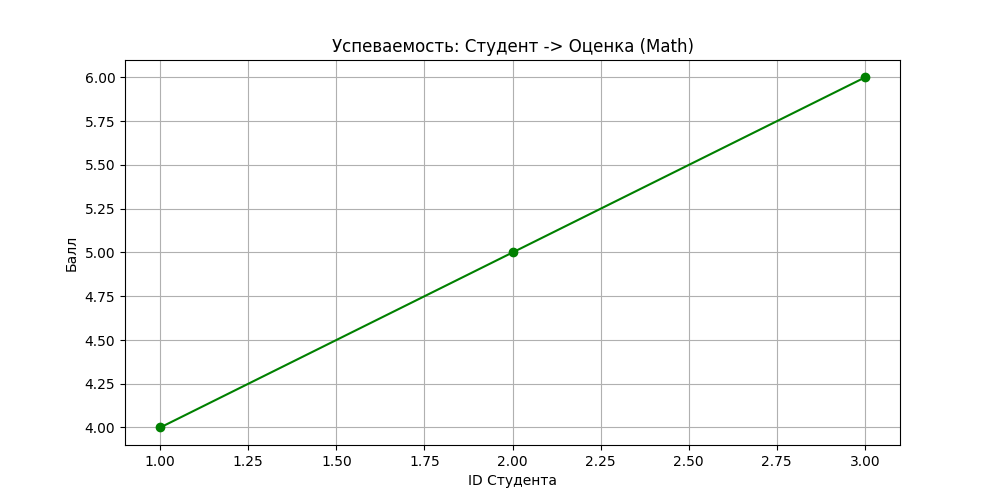
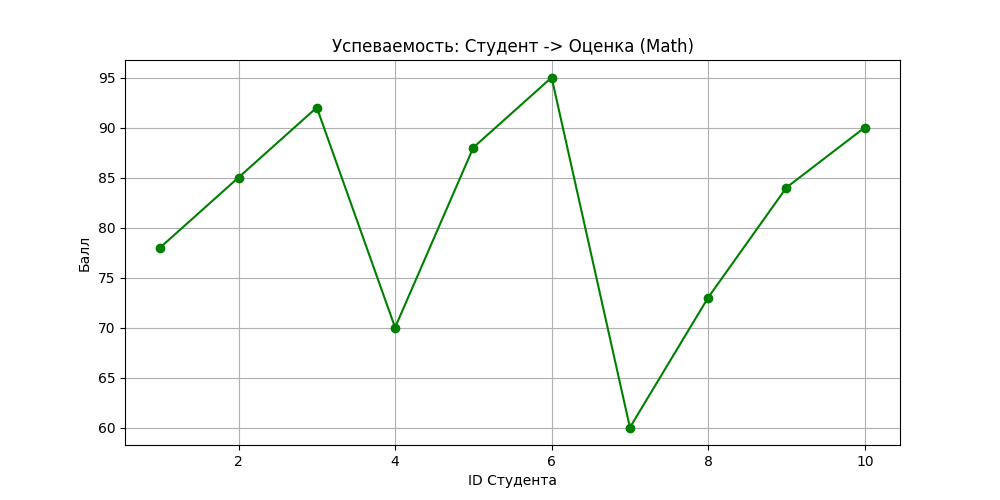
исправлены фото во 2 лабе (в прошлый раз были случайно использованы тестовые), все точно приведено к стандартам

diff --git a/docs/index.html b/docs/index.html
@@ -293,5 +293,5 @@
 
 <!--
 MkDocs version : 1.6.1
-Build Date UTC : 2026-03-13 20:12:33.699055+00:00
+Build Date UTC : 2026-03-13 20:51:59.976330+00:00
 -->

diff --git a/lab_2/main.py b/lab_2/main.py
@@ -1,17 +1,20 @@
 import os
 from typing import Dict, Union
-import numpy as np
-import pandas as pd
+
 import matplotlib
 import matplotlib.pyplot as plt
+import numpy as np
+import pandas as pd
 import seaborn as sns
 
-matplotlib.use('Agg')
+# Установка бэкенда должна быть сразу после импорта matplotlib
+matplotlib.use("Agg")
 
 
 # ============================================================
 # 1. СОЗДАНИЕ И ОБРАБОТКА МАССИВОВ
 # ============================================================
+
 
 def create_vector() -> np.ndarray:
     """Создает одномерный массив (вектор) от 0 до 9 включительно."""
@@ -24,14 +27,7 @@ def create_matrix() -> np.ndarray:
 
 
 def reshape_vector(vec: np.ndarray) -> np.ndarray:
-    """
-    Меняет форму массива из 10 элементов в таблицу 2x5.
-    
-    Args:
-        vec: Входной массив из 10 элементов.
-    Returns:
-        Массив формы (2, 5).
-    """
+    """Изменяет форму массива из 10 элементов в таблицу 2x5."""
     return vec.reshape(2, 5)
 
 
@@ -43,6 +39,7 @@ def transpose_matrix(mat: np.ndarray) -> np.ndarray:
 # ============================================================
 # 2. ВЕКТОРНЫЕ ОПЕРАЦИИ
 # ============================================================
+
 
 def vector_add(a: np.ndarray, b: np.ndarray) -> np.ndarray:
     """Сложение векторов одинаковой длины без циклов."""
@@ -68,6 +65,7 @@ def dot_product(a: np.ndarray, b: np.ndarray) -> Union[float, np.int64]:
 # 3. МАТРИЧНЫЕ ОПЕРАЦИИ
 # ============================================================
 
+
 def matrix_multiply(a: np.ndarray, b: np.ndarray) -> np.ndarray:
     """Классическое умножение матриц."""
     return a @ b
@@ -92,6 +90,7 @@ def solve_linear_system(a: np.ndarray, b: np.ndarray) -> np.ndarray:
 # 4. СТАТИСТИЧЕСКИЙ АНАЛИЗ
 # ============================================================
 
+
 def load_dataset(path: str = "data/students_scores.csv") -> np.ndarray:
     """Загружает CSV и возвращает NumPy массив чисел."""
     df = pd.read_csv(path)
@@ -99,12 +98,7 @@ def load_dataset(path: str = "data/students_scores.csv") -> np.ndarray:
 
 
 def statistical_analysis(data: np.ndarray) -> Dict[str, float]:
-    """
-    Вычисляет основные статистические показатели.
-    
-    Returns:
-        Словарь со средним, медианой, ст. отклонением и др.
-    """
+    """Вычисляет основные статистические показатели."""
     return {
         "mean": float(np.mean(data)),
         "median": float(np.median(data)),
@@ -112,7 +106,7 @@ def statistical_analysis(data: np.ndarray) -> Dict[str, float]:
         "min": float(np.min(data)),
         "max": float(np.max(data)),
         "q1": float(np.percentile(data, 25)),
-        "q3": float(np.percentile(data, 75))
+        "q3": float(np.percentile(data, 75)),
     }
 
 
@@ -129,11 +123,12 @@ def normalize_data(data: np.ndarray) -> np.ndarray:
 # 5. ВИЗУАЛИЗАЦИЯ
 # ============================================================
 
+
 def plot_histogram(data: np.ndarray):
     """Строит и сохраняет гистограмму распределения баллов."""
     os.makedirs("plots", exist_ok=True)
     plt.figure(figsize=(8, 5))
-    plt.hist(data, bins=5, color='skyblue', edgecolor='black')
+    plt.hist(data, bins=5, color="skyblue", edgecolor="black")
     plt.title("Распределение оценок")
     plt.xlabel("Баллы")
     plt.ylabel("Количество")
@@ -145,16 +140,17 @@ def plot_heatmap(matrix: np.ndarray):
     """Строит тепловую карту корреляции между предметами."""
     os.makedirs("plots", exist_ok=True)
     plt.figure(figsize=(8, 6))
-    sns.heatmap(matrix, annot=True, cmap='coolwarm', fmt=".2f")
+    sns.heatmap(matrix, annot=True, cmap="coolwarm", fmt=".2f")
     plt.title("Корреляция предметов")
     plt.savefig("plots/heatmap.png")
     plt.close()
+
 
 def plot_line(x: np.ndarray, y: np.ndarray):
     """Строит график зависимости оценки от номера студента."""
     os.makedirs("plots", exist_ok=True)
     plt.figure(figsize=(10, 5))
-    plt.plot(x, y, marker='o', linestyle='-', color='green')
+    plt.plot(x, y, marker="o", linestyle="-", color="green")
     plt.title("Успеваемость: Студент -> Оценка (Math)")
     plt.xlabel("ID Студента")
     plt.ylabel("Балл")
@@ -162,5 +158,23 @@ def plot_line(x: np.ndarray, y: np.ndarray):
     plt.savefig("plots/line_plot.png")
     plt.close()
 
+
 if __name__ == "__main__":
     print("Выполните запуск тестов: python -m pytest tests.py -v")
+    try:
+        data_path = "numpy_lab/data/students_scores.csv"
+        data = load_dataset(data_path)
+        print("Данные успешно загружены!")
+
+        plot_histogram(data.flatten())
+
+        corr_matrix = np.corrcoef(data, rowvar=False)
+        plot_heatmap(corr_matrix)
+
+        students_ids = np.arange(1, len(data) + 1)
+        math_scores = data[:, 0]
+        plot_line(students_ids, math_scores)
+
+        print("Графики успешно сохранены в папку 'plots/'")
+    except FileNotFoundError:
+        print(f"Ошибка: Файл по пути {data_path} не найден.")

diff --git a/lab_2/tests.py b/lab_2/tests.py
@@ -5,10 +5,12 @@ import os
 import numpy as np
 import pandas as pd
 import matplotlib
-matplotlib.use('Agg')
+
+matplotlib.use("Agg")
 import matplotlib.pyplot as plt
 import seaborn as sns
 from main import *
+
 
 def test_create_vector():
     v = create_vector()
@@ -34,55 +36,50 @@ def test_reshape_vector():
 
 def test_vector_add():
     assert np.array_equal(
-        vector_add(np.array([1,2,3]), np.array([4,5,6])),
-        np.array([5,7,9])
+        vector_add(np.array([1, 2, 3]), np.array([4, 5, 6])), np.array([5, 7, 9])
     )
     assert np.array_equal(
-        vector_add(np.array([0,1]), np.array([1,1])),
-        np.array([1,2])
+        vector_add(np.array([0, 1]), np.array([1, 1])), np.array([1, 2])
     )
 
 
 def test_scalar_multiply():
-    assert np.array_equal(
-        scalar_multiply(np.array([1,2,3]), 2),
-        np.array([2,4,6])
-    )
+    assert np.array_equal(scalar_multiply(np.array([1, 2, 3]), 2), np.array([2, 4, 6]))
 
 
 def test_elementwise_multiply():
     assert np.array_equal(
-        elementwise_multiply(np.array([1,2,3]), np.array([4,5,6])),
-        np.array([4,10,18])
+        elementwise_multiply(np.array([1, 2, 3]), np.array([4, 5, 6])),
+        np.array([4, 10, 18]),
     )
 
 
 def test_dot_product():
-    assert dot_product(np.array([1,2,3]), np.array([4,5,6])) == 32
-    assert dot_product(np.array([2,0]), np.array([3,5])) == 6
+    assert dot_product(np.array([1, 2, 3]), np.array([4, 5, 6])) == 32
+    assert dot_product(np.array([2, 0]), np.array([3, 5])) == 6
 
 
 def test_matrix_multiply():
-    A = np.array([[1,2],[3,4]])
-    B = np.array([[2,0],[1,2]])
-    assert np.array_equal(matrix_multiply(A,B), A @ B)
+    A = np.array([[1, 2], [3, 4]])
+    B = np.array([[2, 0], [1, 2]])
+    assert np.array_equal(matrix_multiply(A, B), A @ B)
 
 
 def test_matrix_determinant():
-    A = np.array([[1,2],[3,4]])
-    assert round(matrix_determinant(A),5) == -2.0
+    A = np.array([[1, 2], [3, 4]])
+    assert round(matrix_determinant(A), 5) == -2.0
 
 
 def test_matrix_inverse():
-    A = np.array([[1,2],[3,4]])
+    A = np.array([[1, 2], [3, 4]])
     invA = matrix_inverse(A)
     assert np.allclose(A @ invA, np.eye(2))
 
 
 def test_solve_linear_system():
-    A = np.array([[2,1],[1,3]])
-    b = np.array([1,2])
-    x = solve_linear_system(A,b)
+    A = np.array([[2, 1], [1, 3]])
+    b = np.array([1, 2])
+    x = solve_linear_system(A, b)
     assert np.allclose(A @ x, b)
 
 
@@ -94,13 +91,13 @@ def test_load_dataset():
     try:
         data = load_dataset("test_data.csv")
         assert data.shape == (2, 3)
-        assert np.array_equal(data[0], [78,81,90])
+        assert np.array_equal(data[0], [78, 81, 90])
     finally:
         os.remove("test_data.csv")
 
 
 def test_statistical_analysis():
-    data = np.array([10,20,30])
+    data = np.array([10, 20, 30])
     result = statistical_analysis(data)
     assert result["mean"] == 20
     assert result["min"] == 10
@@ -108,25 +105,25 @@ def test_statistical_analysis():
 
 
 def test_normalization():
-    data = np.array([0,5,10])
+    data = np.array([0, 5, 10])
     norm = normalize_data(data)
-    assert np.allclose(norm, np.array([0,0.5,1]))
+    assert np.allclose(norm, np.array([0, 0.5, 1]))
 
 
 def test_plot_histogram():
     # Просто проверяем, что функция не падает
-    data = np.array([1,2,3,4,5])
+    data = np.array([1, 2, 3, 4, 5])
     plot_histogram(data)
 
 
 def test_plot_heatmap():
-    matrix = np.array([[1,0.5],[0.5,1]])
+    matrix = np.array([[1, 0.5], [0.5, 1]])
     plot_heatmap(matrix)
 
 
 def test_plot_line():
-    x = np.array([1,2,3])
-    y = np.array([4,5,6])
+    x = np.array([1, 2, 3])
+    y = np.array([4, 5, 6])
     plot_line(x, y)
 
 
